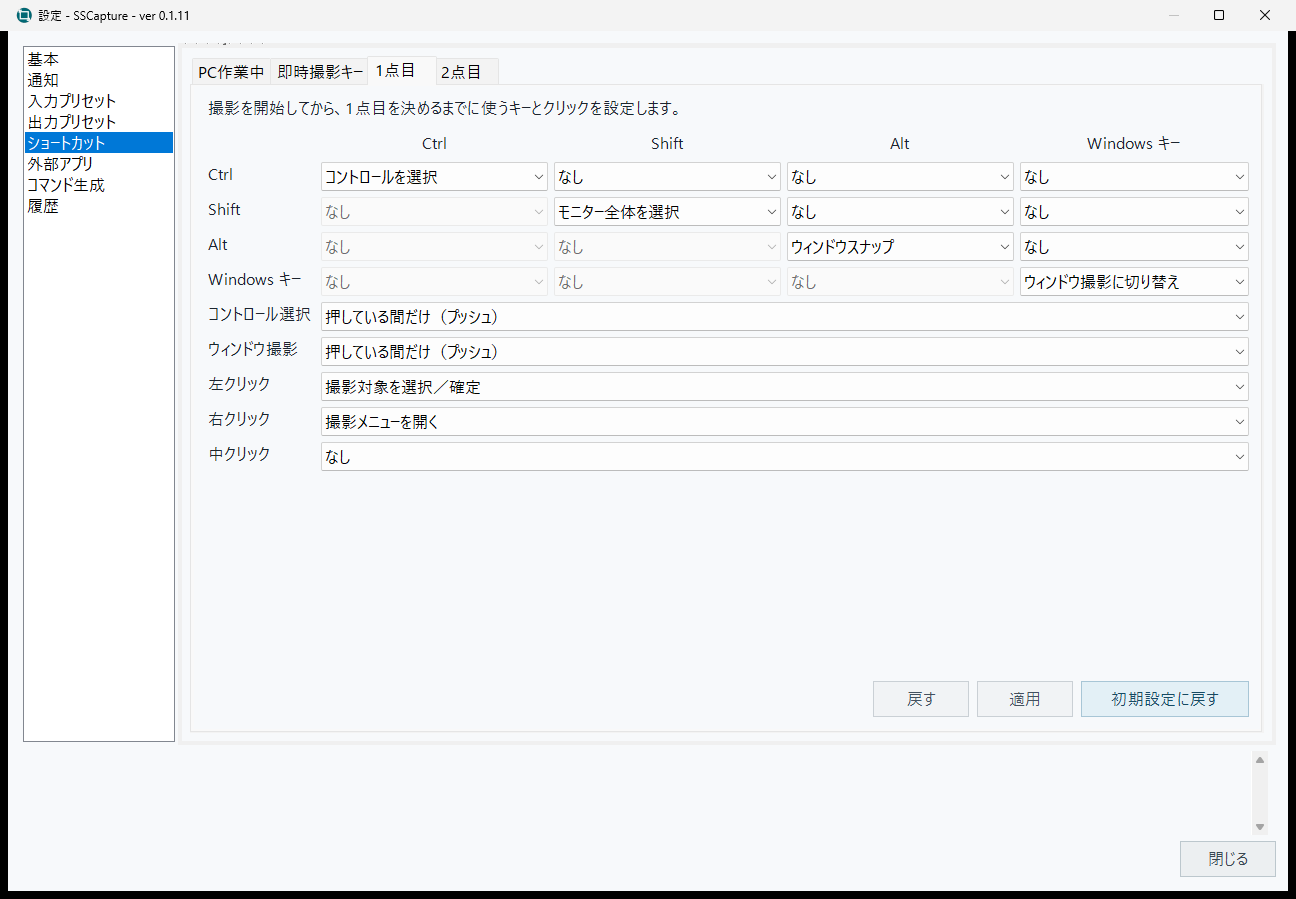
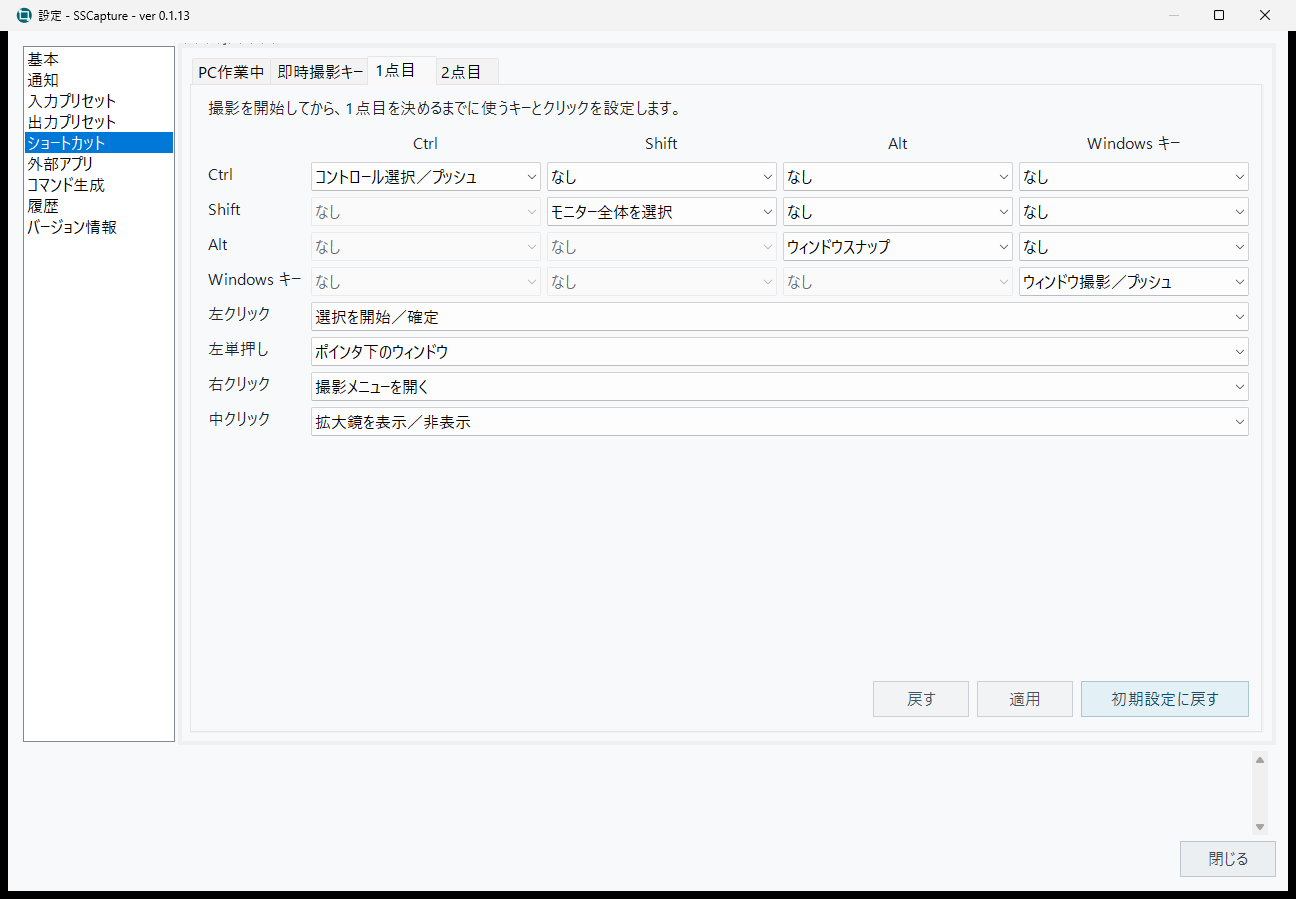
v0.1.13の最終差し替え案内と設定画像を更新する

diff --git a/docs/releases/v0.1.13.md b/docs/releases/v0.1.13.md
@@ -1,5 +1,7 @@
 # SSCapture v0.1.13 (beta)
 
+2026年11月27日の最終差し替え版では、Winで選んだウィンドウの隠れた部分もWGCで撮影できます。Edgeの短い文字ラベルのCtrl撮影を修正し、通常の左単押しで撮る対象を設定できるようにしました。
+
 Excelを撮影して「表をコピー」すると、グリッド線から列の位置を読み取ります。1行だけの表や途中に空欄がある表も、列の並びを保って貼り付けられます。
 
 [SSCaptureの概要・使い方（README）](https://github.com/KotorinChunChun/SSCapture/blob/v0.1.13/README.md)
@@ -28,7 +30,7 @@ Windows 11 x64向けです。.NET 10 Desktop Runtimeを同梱しています。O
 ## 主な変更
 
 - 選択画面と拡大鏡で、実際に撮影する範囲の境界を赤線に統一しました。矩形選択では、ポインタを通る全画面ガイド線を使えます。画面右下の操作ガイドは、最初のクリック前でもポインタが近づくと退避します。
-- 画面固定中にWinやCtrlで撮影方式を変えても、開始時の映像とポインタを使います。開始時の画面から撮影対象を確認できない場合は、理由を表示します。
+- 画面固定中にCtrlで選んだコントロールは、開始時の画素を使います。位置を確認できない場合は、同じ固定画面で範囲選択を続けられます。
 - 遅延撮影に残り秒数とバーを表示します。待機中はEscで取り消せます。定期撮影は、標準の「ファイル保存」を復元した後も、その保存先と命名設定を使います。
 - 撮影中のメニューから設定を開けます。通知領域のメニューを操作ごとに整理し、対応するショートカットを表示します。サブメニューは親と同じモニターに表示します。
 - 画像・動画それぞれの既定の編集アプリを、一覧の★で確認できます。「既定にする」で即時保存します。通知の設定では画像用と動画用の同名アプリを見分けられます。
@@ -37,10 +39,16 @@ Windows 11 x64向けです。.NET 10 Desktop Runtimeを同梱しています。O
 
 [使い方](https://github.com/KotorinChunChun/SSCapture/blob/v0.1.13/docs/usage.md) · [設定](https://github.com/KotorinChunChun/SSCapture/blob/v0.1.13/docs/settings.md) · [コマンドライン](https://github.com/KotorinChunChun/SSCapture/blob/v0.1.13/docs/cli.md) · [不具合を報告](https://github.com/KotorinChunChun/SSCapture/issues)
 
-## 2026年11月25日 差し替え
+## 2026年11月27日 最終差し替え
 
-画面固定をONにしたまま、開始時の配置を確認できるコントロールをCtrl＋左クリック、ウィンドウをWin＋左クリックで撮影できるよう修正しました。ブラウザーの外から開始した場合も選択できます。プレビュー・撮影画像・画像に含めるカーソルには開始時の画面を使います。コントロールの位置を確認できないときは、Ctrlを離して同じ固定画面の範囲選択を続けられます。
+- Winでのウィンドウ撮影は画面固定にかかわらずWGCを使います。ウィンドウの見えている部分を指せば、隠れている部分も撮影できます。カーソルを含める場合は、開始時に対象内にあったカーソルをその位置と形で重ねます。
+- Edgeで、画面固定中にページ左上の短い文字ラベルをCtrl＋左クリックで選べない場合がある問題を修正しました。実際のEdgeで、開始後にラベルの表示色を変え、開始時の画像がクリップボードに入ることを確認しました。
+- 「ショートカット」→「1点目」→「左単押し」で、修飾キーなしの撮影対象をウィンドウ・モニター・コントロール・なしから選べます。既定はウィンドウです。
 
-実際のChromeで開始後にボタンの色を変え、開始時の画素がクリップボードにコピーされることを確認しました。WinFormsでもCtrl・Winでの撮影を確認しました。
+重なった実ウィンドウで、背面の画素がWGCプレビューと確定画像に入ることを確認しました。混在DPIでの実操作は未確認です。
 
 先にv0.1.13を導入済みの場合は、SSCaptureを終了し、このページからセットアップを取得し直して同じ導入先にインストールしてください。差し替え後のセットアップに対応するSHA-256は、同じページの一覧で確認できます。
+
+## 2026年11月25日 差し替えの記録
+
+この時点の配布では、画面固定中にCtrlやWinで選んだ対象に開始時の画面を使うようにしました。Chromeでは撮影開始後にボタンの色を変え、開始時の画素がクリップボードに入ることを確認しました。WinFormsでもCtrlとWinによる撮影を確認しました。Win撮影の方式は11月27日の最終差し替えでWGCへ更新しました。

diff --git a/docs/cli.md b/docs/cli.md
@@ -24,7 +24,7 @@ $sscapture = Join-Path $env:LOCALAPPDATA 'Programs\SSCapture\SSCapture.exe'
 
 | 引数 | 動作 |
 | --- | --- |
-| `--capture-select` | 撮影範囲の選択画面を開きます。通常の矩形では左ドラッグで囲み、Escでキャンセルできます。画面固定ONでは、Win・Ctrlで選んだ対象も開始時の画素で撮影します。 |
+| `--capture-select` | 撮影範囲の選択画面を開きます。通常の矩形では左ドラッグで囲み、Escで取り消せます。Winでのウィンドウ撮影は画面固定にかかわらずWGCを使います。画面固定ONでCtrlで選んだコントロールは開始時の画素を使います。 |
 | `--capture-region X Y W H` | 左上の座標と幅・高さを使い、選択画面を出さずに現在表示されている画面を撮影します。 |
 | `--capture-preset` | 入力プリセットの方式で撮影します。登録済みの固定位置はその位置で即時撮影し、固定サイズは枠を置く画面を開きます。 |
 | `--capture-window` | ウィンドウを一意に指定し、WGCで静止画を撮影します。選択画面は開きません。 |

diff --git a/docs/settings.md b/docs/settings.md
@@ -90,6 +90,8 @@
 
 ![ショートカットの1点目](images/settings/05-shortcuts-3.png)
 
+「左クリック」を「選択を開始／確定」にすると、「左単押し」でポインタ下のウィンドウ・モニター・コントロール・なしを選べます。既定はウィンドウです。矩形・フリーフォームの静止画で修飾キーを押さず、ドラッグせずに左ボタンを離したときに使います。
+
 撮影を始めてから、範囲の1点目を決めるまでに使う修飾キーとクリックの割り当てです。表の行と列の組み合わせで、2つのキーを同時に押したときの動作を指定します。初期値では、Ctrlでコントロールの選択、Shiftでデスクトップ（モニター全体）の選択、Altでウィンドウスナップ、Windowsキーでウィンドウ撮影への切り替えです。コントロール選択とウィンドウ撮影は、押している間だけ有効にするか、押すたびに切り替えるかを選べます。
 
 ### 2点目
